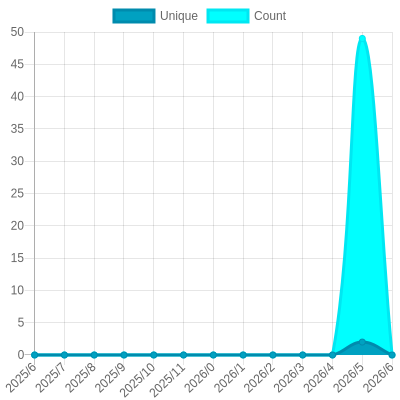
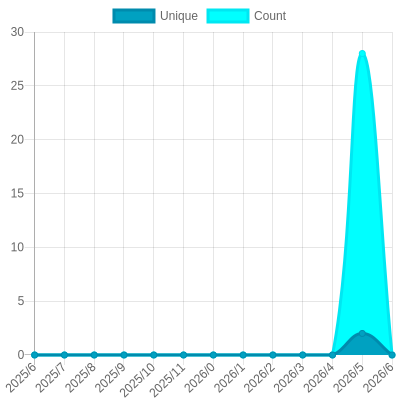
Update views

diff --git a/readme/1007614537/year.md b/readme/1007614537/year.md
@@ -37,7 +37,7 @@
 			<code>2</code>
 		</td>
 		<td>
-			<code>49</code>
+			<code>28</code>
 		</td>
 	</tr>
 	<tr>
@@ -164,7 +164,7 @@
 </table>
 
 </details>
-<small><i>Last updated on 2025/7/8 6:55 AM UTC</i></small>
+<small><i>Last updated on 2025/7/8 1:47 PM UTC</i></small>
 
 ## ✂Copy and 📋 Paste
 ### SVG Badge

diff --git a/README.md b/README.md
@@ -53,7 +53,7 @@ The project created and maintained by [gayanvoice](https://github.com/gayanvoice
 	</tr>
 </table>
 
-<small><i>Last updated on 2025/7/8 6:55 AM UTC</i></small>
+<small><i>Last updated on 2025/7/8 1:47 PM UTC</i></small>
 
 ## ✂Copy and 📋 Paste
 ### Total Views Badge

diff --git a/readme/1004317952/year.md b/readme/1004317952/year.md
@@ -164,7 +164,7 @@
 </table>
 
 </details>
-<small><i>Last updated on 2025/7/8 6:55 AM UTC</i></small>
+<small><i>Last updated on 2025/7/8 1:47 PM UTC</i></small>
 
 ## ✂Copy and 📋 Paste
 ### SVG Badge
